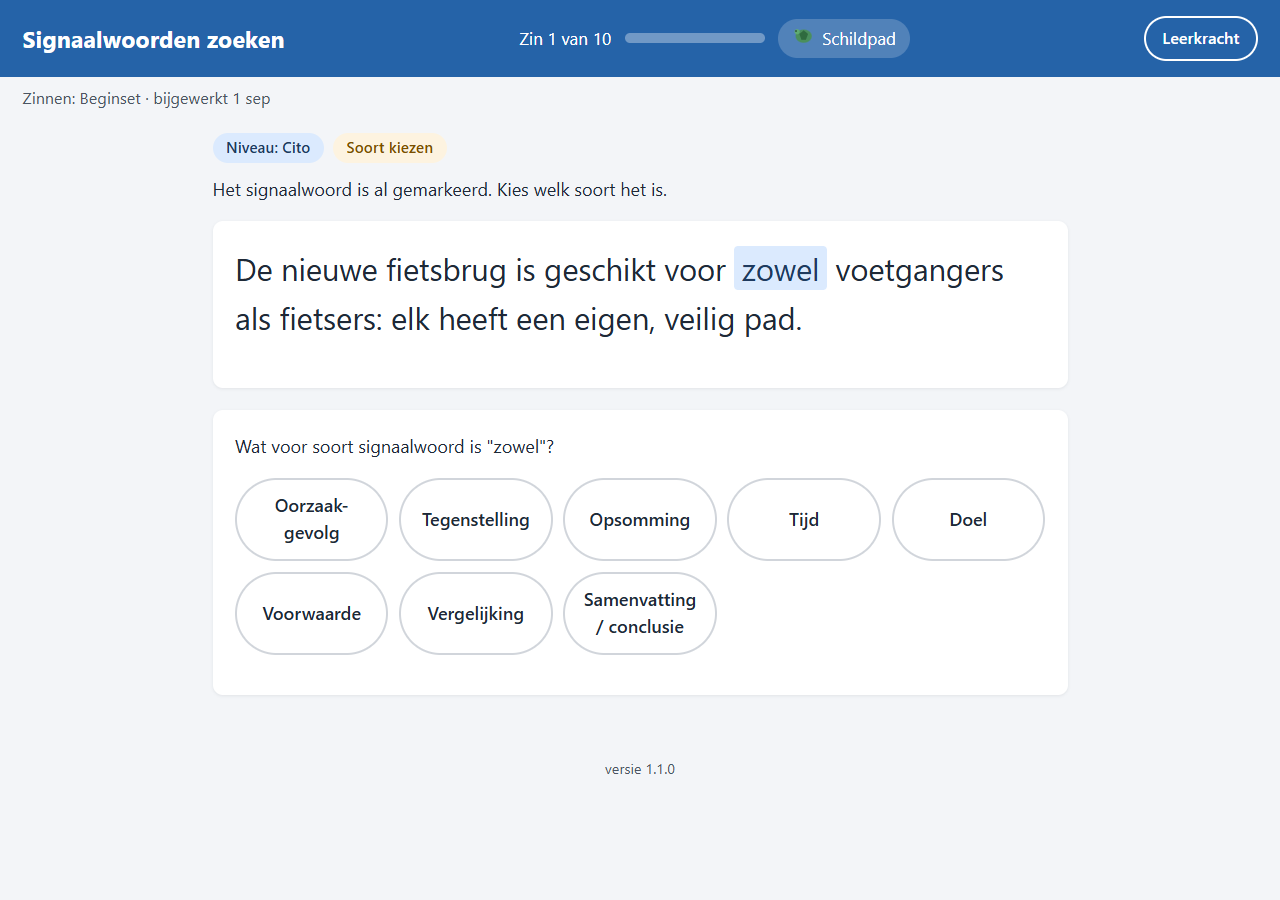
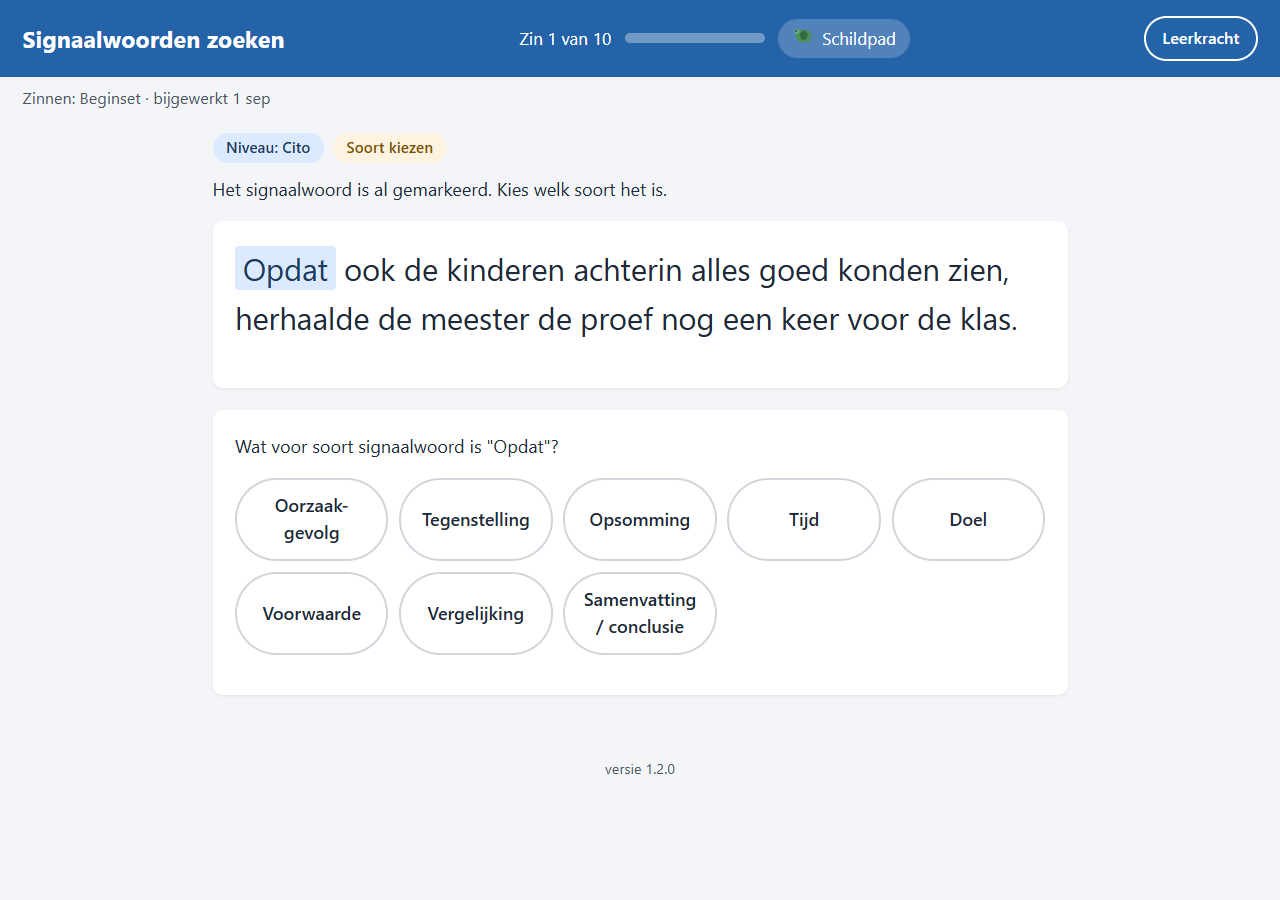
Chore: versie 1.2.0 en screenshots opnieuw gegenereerd

Changed region(s): [[0.1562, 0.2489, 0.7812, 0.3733], [0.375, 0.4667, 0.4375, 0.5289]]

diff --git a/app/sw.js b/app/sw.js
@@ -1,7 +1,7 @@
 // Klassieke (niet-module) service worker: cachet de app-bestanden zodat alles ook
 // zonder internet werkt, en zodat de app blijft werken als onze eigen website plat ligt.
 // VERSIE moet gelijk zijn aan js/versie.js (bewaakt door tests/unit/sw.test.mjs).
-const VERSIE = '1.1.0';
+const VERSIE = '1.2.0';
 const CACHE_NAAM = `signaalwoorden-${VERSIE}`;
 
 // Exact de bestanden onder app/ (plus './' voor de map zelf). Bij elke wijziging aan

diff --git a/app/js/versie.js b/app/js/versie.js
@@ -1,4 +1,4 @@
 // Eén plek voor het versienummer. sw.js heeft dezelfde string (los gehouden
 // omdat een service worker geen ES-module-import van buiten zijn eigen script mag doen
 // zonder extra complexiteit); sw.test.mjs bewaakt dat ze gelijk blijven.
-export const VERSIE = '1.1.0';
+export const VERSIE = '1.2.0';
